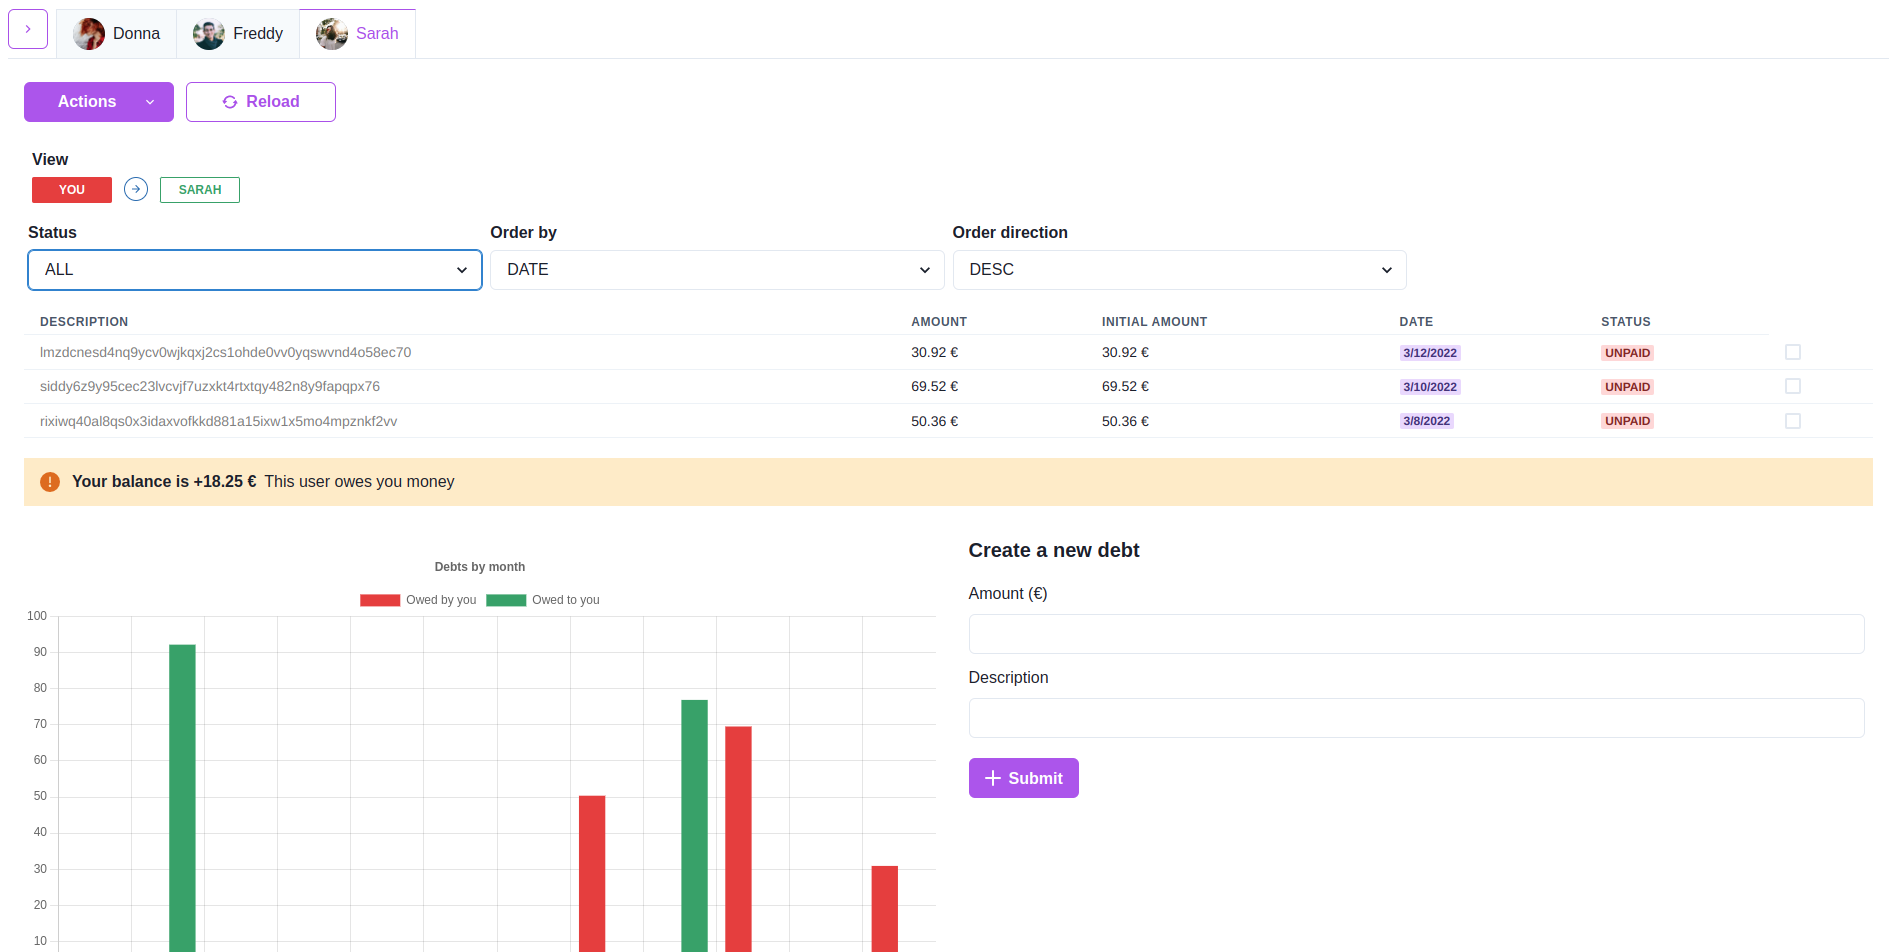
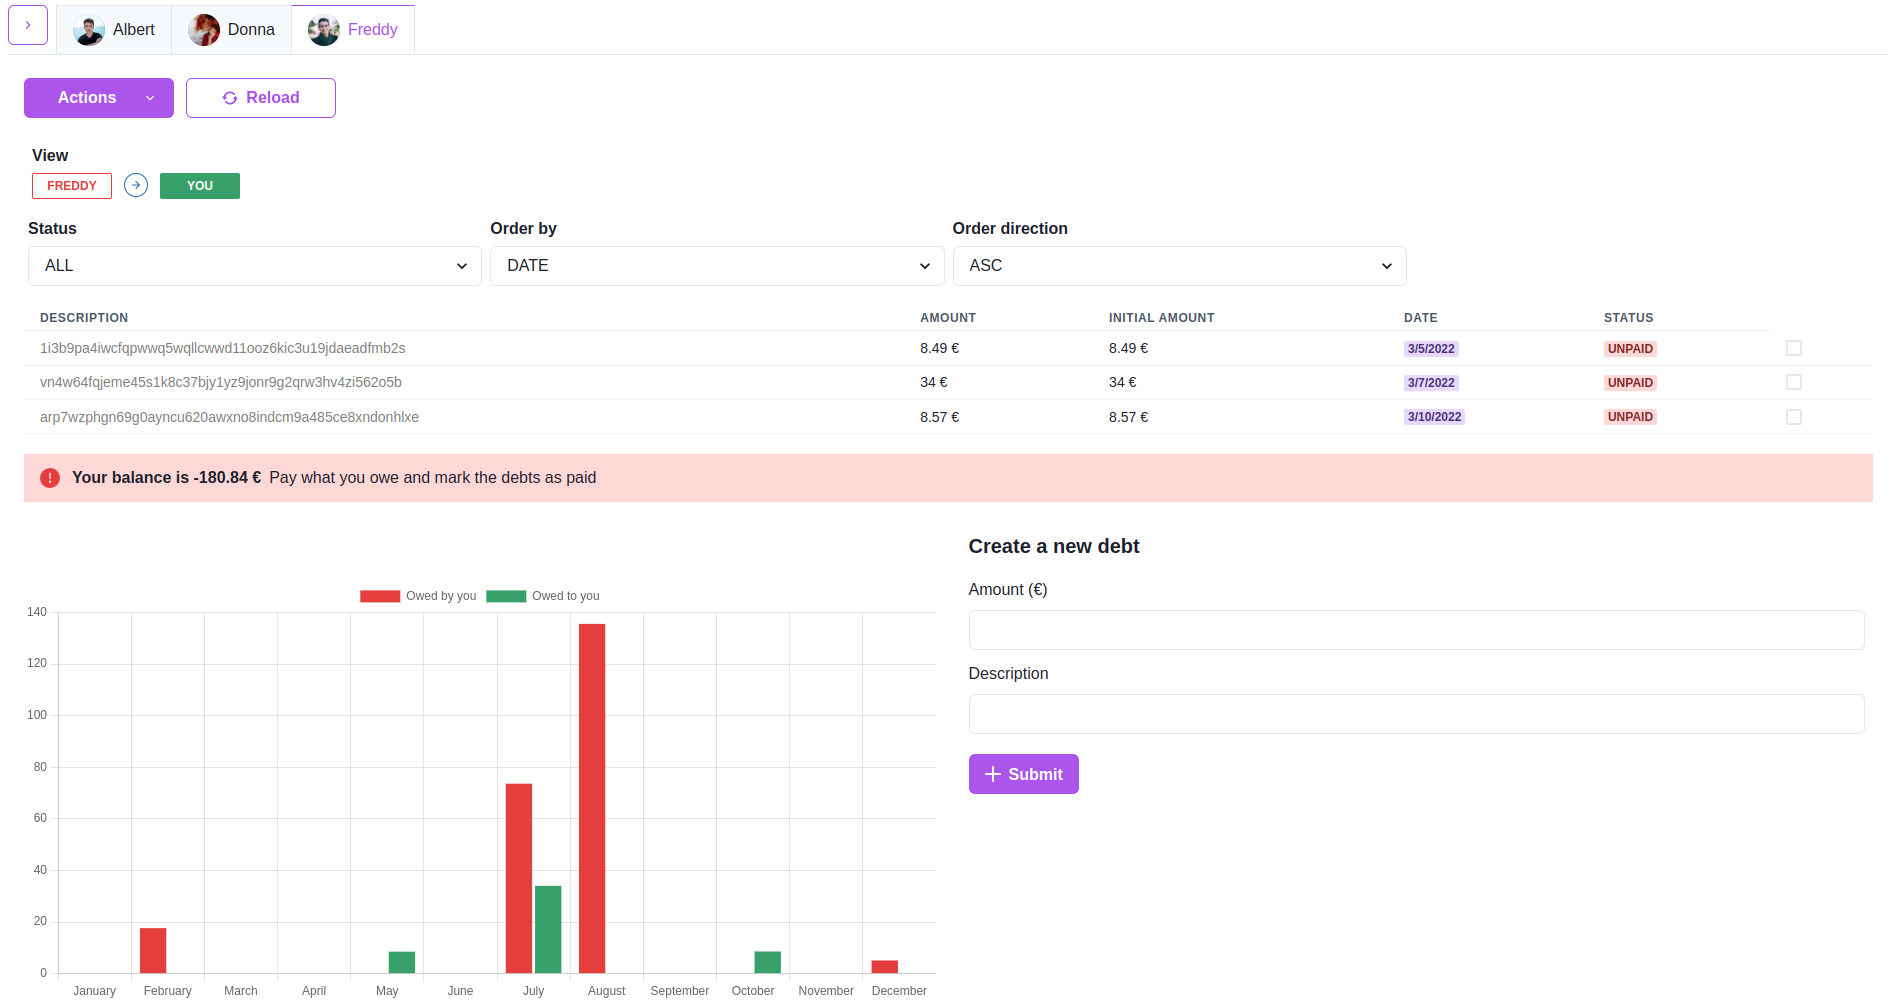
feature: loader (#4)

diff --git a/client/src/App.js b/client/src/App.js
@@ -7,13 +7,17 @@ import {
   remove as removeAuthUser,
 } from "./store/slices/authUser";
 import { remove as removeAccessToken } from "./store/slices/accessToken.js";
-import { useEffect } from "react";
+import { Fragment, useEffect, useState } from "react";
 import { useDispatch, useSelector } from "react-redux";
 import { getPrincipal as getPrincipalUser } from "./api/users.js";
 import useAccessToken from "./hooks/useAccessToken.js";
+import PuffLoader from "react-spinners/PuffLoader.js";
+import { chakraTheme } from "./theme.js";
+import { Center } from "@chakra-ui/react";
 
 function App() {
   const authUser = useSelector((state) => state.au.v);
+  const [isLoading, setIsLoading] = useState(true);
   const navigate = useNavigate();
   const dispatch = useDispatch();
   const accessToken = useAccessToken();
@@ -37,24 +41,35 @@ function App() {
         if (data) {
           dispatch(addAuthUser(data));
           navigate("/dashboard");
+          setIsLoading(false);
           return;
         }
       }
+      setIsLoading(false);
     })();
   }, []);
 
   return (
-    <Routes>
-      <Route path="/" element={<Home />} />
-      <Route
-        path="/dashboard"
-        element={
-          <ProtectedRoute authUser={authUser}>
-            <Dashboard />
-          </ProtectedRoute>
-        }
-      />
-    </Routes>
+    <Fragment>
+      {isLoading && (
+        <Center height="100vh">
+          <PuffLoader color={chakraTheme.colors.primary} />
+        </Center>
+      )}
+      {!isLoading && (
+        <Routes>
+          <Route path="/" element={<Home />} />
+          <Route
+            path="/dashboard"
+            element={
+              <ProtectedRoute authUser={authUser}>
+                <Dashboard />
+              </ProtectedRoute>
+            }
+          />
+        </Routes>
+      )}
+    </Fragment>
   );
 }
 

diff --git a/client/src/pages/dashboard/DashboardTable.js b/client/src/pages/dashboard/DashboardTable.js
@@ -8,7 +8,6 @@ import {
   Badge,
   Checkbox,
   Center,
-  Spinner,
   Text,
   Table,
   Tooltip,
@@ -17,6 +16,8 @@ import { InfoIcon } from "@chakra-ui/icons";
 import { CURRENCY } from "../../config";
 import { Fragment, useState } from "react";
 import { truncate2decimals } from "../../utils/format.js";
+import SyncLoader from "react-spinners/SyncLoader.js";
+import { chakraTheme } from "../../theme.js";
 
 export default function DashboardTable({
   loading,
@@ -55,7 +56,6 @@ export default function DashboardTable({
                     {d.reductionAmount !== 0 && (
                       <Fragment>
                         <Badge
-                          minWidth="40px"
                           onClick={() => {
                             setToolTipDebtId(
                               toolTipDebtId === d.id ? -1 : d.id
@@ -94,7 +94,7 @@ export default function DashboardTable({
                     )}
                   </Td>
                   <Td>
-                    <Badge minWidth="50px" colorScheme="purple">
+                    <Badge colorScheme="purple">
                       {new Date(d.createdAt).toLocaleDateString()}
                     </Badge>
                   </Td>
@@ -122,8 +122,8 @@ export default function DashboardTable({
         </Table>
       )}
       {loading && (
-        <Center>
-          <Spinner color="blue.500" size="xl" />
+        <Center minHeight="200px">
+          <SyncLoader color={chakraTheme.colors.primary} />
         </Center>
       )}
     </TableContainer>

diff --git a/client/src/pages/Home.js b/client/src/pages/Home.js
@@ -26,6 +26,7 @@ import { useNavigate } from "react-router-dom";
 import { useDispatch } from "react-redux";
 import { add as addAuthUser } from "../store/slices/authUser";
 import { add as addAccessToken } from "../store/slices/accessToken.js";
+import { chakraTheme } from "../theme.js";
 
 export default function Home() {
   const dispatch = useDispatch();
@@ -124,7 +125,13 @@ export default function Home() {
             <Box mt={5}>
               <FormControl mb={2}>
                 <FormLabel>Email</FormLabel>
-                <Input value={menuValue} name="email" type="text" readOnly />
+                <Input
+                  focusBorderColor={chakraTheme.colors.primary}
+                  value={menuValue}
+                  name="email"
+                  type="text"
+                  readOnly
+                />
                 <FormHelperText mb={3}>
                   This field is disabled, please use the above selector to fill
                   it with the email of the selected user
@@ -132,7 +139,11 @@ export default function Home() {
               </FormControl>
               <FormControl>
                 <FormLabel>Password</FormLabel>
-                <Input name="password" type="password" />
+                <Input
+                  focusBorderColor={chakraTheme.colors.primary}
+                  name="password"
+                  type="password"
+                />
               </FormControl>
             </Box>
             {error && (

diff --git a/client/src/components/forms/CreateDebtForm.js b/client/src/components/forms/CreateDebtForm.js
@@ -1,5 +1,4 @@
 import {
-  Text,
   FormControl,
   FormLabel,
   Input,
@@ -13,6 +12,7 @@ import LoadingButton from "../LoadingButton";
 import { useState } from "react";
 import { AddIcon } from "@chakra-ui/icons";
 import useAccessToken from "../../hooks/useAccessToken";
+import { chakraTheme } from "../../theme.js";
 
 export default function CreateDebtForm({ onSuccess, debtUserId }) {
   const accessToken = useAccessToken();
@@ -55,11 +55,20 @@ export default function CreateDebtForm({ onSuccess, debtUserId }) {
       <Heading size="md">Create a new debt</Heading>
       <FormControl mt={5}>
         <FormLabel>Amount ({CURRENCY})</FormLabel>
-        <Input name="amount" step="0.01" type="number" />
+        <Input
+          focusBorderColor={chakraTheme.colors.primary}
+          name="amount"
+          step="0.01"
+          type="number"
+        />
       </FormControl>
       <FormControl mt={3}>
         <FormLabel>Description</FormLabel>
-        <Input name="description" type="text" />
+        <Input
+          focusBorderColor={chakraTheme.colors.primary}
+          name="description"
+          type="text"
+        />
       </FormControl>
       {error && (
         <Alert mt={3} status="error">

diff --git a/client/src/pages/dashboard/Dashboard.js b/client/src/pages/dashboard/Dashboard.js
@@ -39,7 +39,7 @@ import {
 import DebtsSumByMonthBarChart from "./charts/DebtsSumByMonthBarChart.js";
 import { rawToChartDataset } from "../../utils/charts.js";
 import { getSumByMonth as getDebtsSumByMonth } from "../../api/debts";
-import { nonChakraTheme } from "../../theme.js";
+import { chakraTheme } from "../../theme.js";
 import { getBarChartDatasets } from "../../utils/charts.js";
 
 export default function Dashboard() {
@@ -150,8 +150,8 @@ export default function Dashboard() {
         "Owed to you",
         rawToChartDataset(data.owedByPrincipal),
         rawToChartDataset(data.owedToPrincipal),
-        nonChakraTheme.colors.error,
-        nonChakraTheme.colors.ok
+        chakraTheme.colors.error,
+        chakraTheme.colors.ok
       ),
     });
   }

diff --git a/client/src/pages/dashboard/DashboardActions.js b/client/src/pages/dashboard/DashboardActions.js
@@ -13,7 +13,6 @@ import {
   IconButton,
   Badge,
   Text,
-  FormLabel,
 } from "@chakra-ui/react";
 import {
   ArrowForwardIcon,
@@ -25,6 +24,7 @@ import {
   EDEBT_ORDER_BY,
   EDEBT_ORDER_DIRECTION,
 } from "../../enums.js";
+import { chakraTheme } from "../../theme.js";
 
 const selects = [
   {
@@ -165,6 +165,7 @@ export default function DashboardActions({
             </Heading>
             <FormControl display="flex" alignItems="center">
               <Select
+                focusBorderColor={chakraTheme.colors.primary}
                 onChange={(e) =>
                   onFilterChange({
                     ...filters,

diff --git a/client/src/pages/dashboard/charts/DebtsSumByMonthBarChart.js b/client/src/pages/dashboard/charts/DebtsSumByMonthBarChart.js
@@ -26,7 +26,7 @@ export default function DebtsSumByMonthBarChart({ chartData }) {
       <BarChart
         width="100%"
         height="50%"
-        options={getBarChartOptions("Debts by month")}
+        options={getBarChartOptions("")}
         data={chartData}
       />
     </Box>

diff --git a/client/src/theme.js b/client/src/theme.js
@@ -18,8 +18,9 @@ const theme = extendTheme({
   },
 });
 
-export const nonChakraTheme = {
+export const chakraTheme = {
   colors: {
+    primary: "#A042E4",
     ok: "#38A169",
     error: "#E53E3E",
   },
